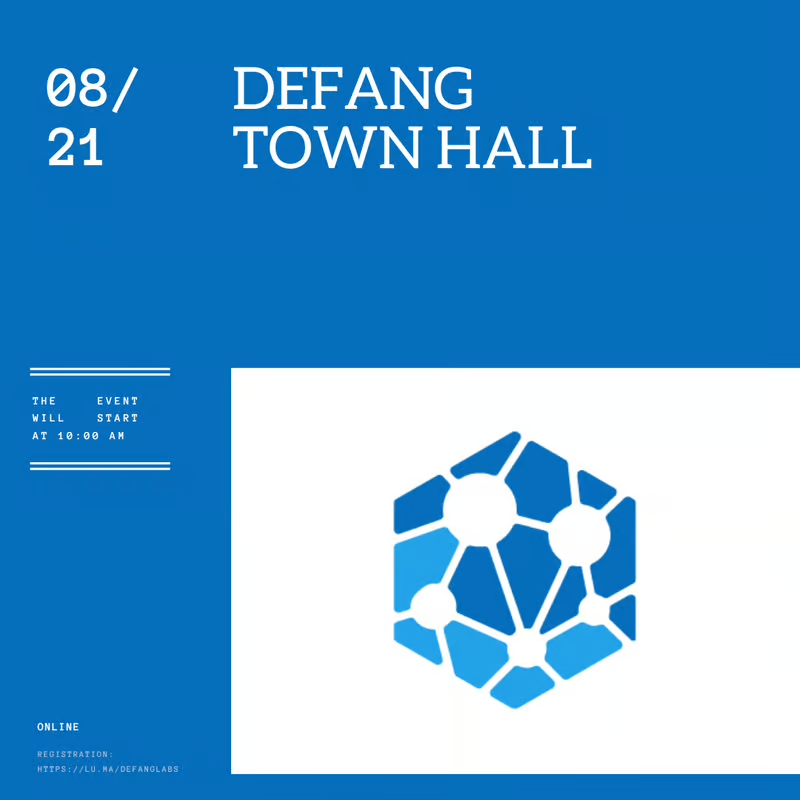
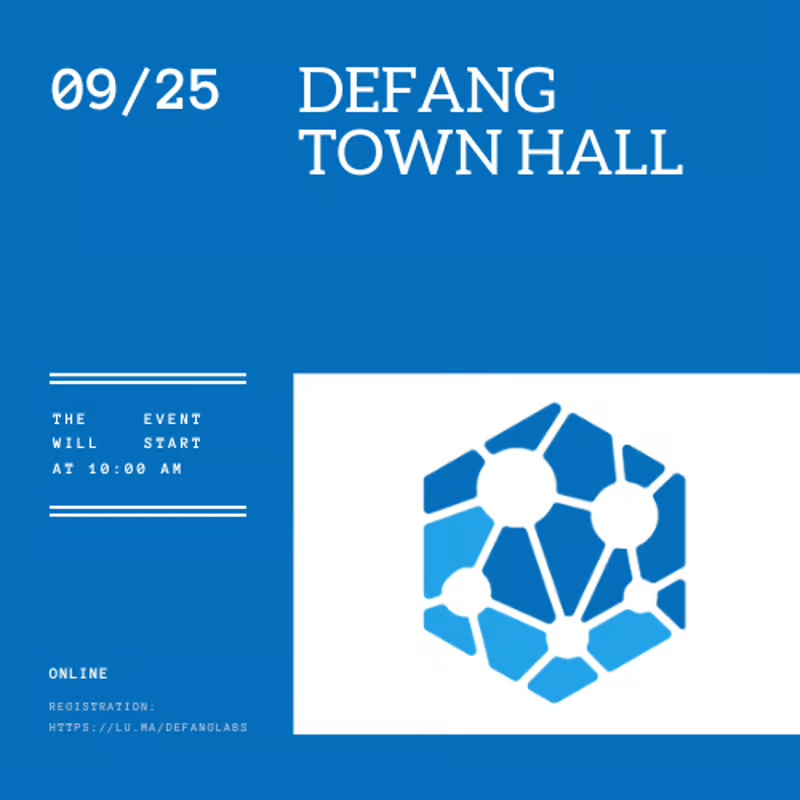
Update August 2024 product updates blog post

Changed region(s): [[0.0312, 0.4375, 1.0, 0.9688], [0.0625, 0.0625, 0.875, 0.2188]]

diff --git a/blog/2024-08-30-august-product-updates.md b/blog/2024-08-30-august-product-updates.md
@@ -43,7 +43,7 @@ We've been working on several AI-driven enhancements to make your development pr
 
 This month, we hosted an in-person [workshop](https://www.linkedin.com/feed/update/urn:li:activity:7233915052083310595/) to get more developers acquainted with Defang and simplify their cloud app journey. You can view the presentation [here](https://s.defang.io/cloudjam2024). We also held the first-ever DevTools Vancouver [meetup](https://www.linkedin.com/posts/defanglabs_devtoolsmeetup-activity-7234599713751060483-zQsg?utm_source=share&utm_medium=member_desktop), bringing together local DevTool founders, engineers, and enthusiasts.
 
-Looking ahead, we’re excited to collaborate with MLH, Hack the North, LangaraHacks, and more in September. If you'd like to attend any of these events, be sure to [sign up](#)!
+Looking ahead, we’re excited to collaborate with [MLH](https://mlh.io/), [Hack the North](https://hackthenorth.com/), [LangaraHacks](https://lhacks.langaracs.ca/), and more in September. If you'd like to attend any of these events, be sure to sign up!
 
 ---
 
@@ -53,7 +53,7 @@ Looking ahead, we’re excited to collaborate with MLH, Hack the North, LangaraH
 
 Mark your calendars! If you’re eager to learn more about what’s coming next, join us for our Townhall on September 25th. We’ll be sharing our future roadmap, answering your questions, and gathering your feedback.
 
-<Button href="https://lu.ma/rlj13eq5" variant="contained" size="large" target="_blank">
+<Button href="https://lu.ma/9d8irae8" variant="contained" size="large" target="_blank">
 Register here!
 </Button>
 
